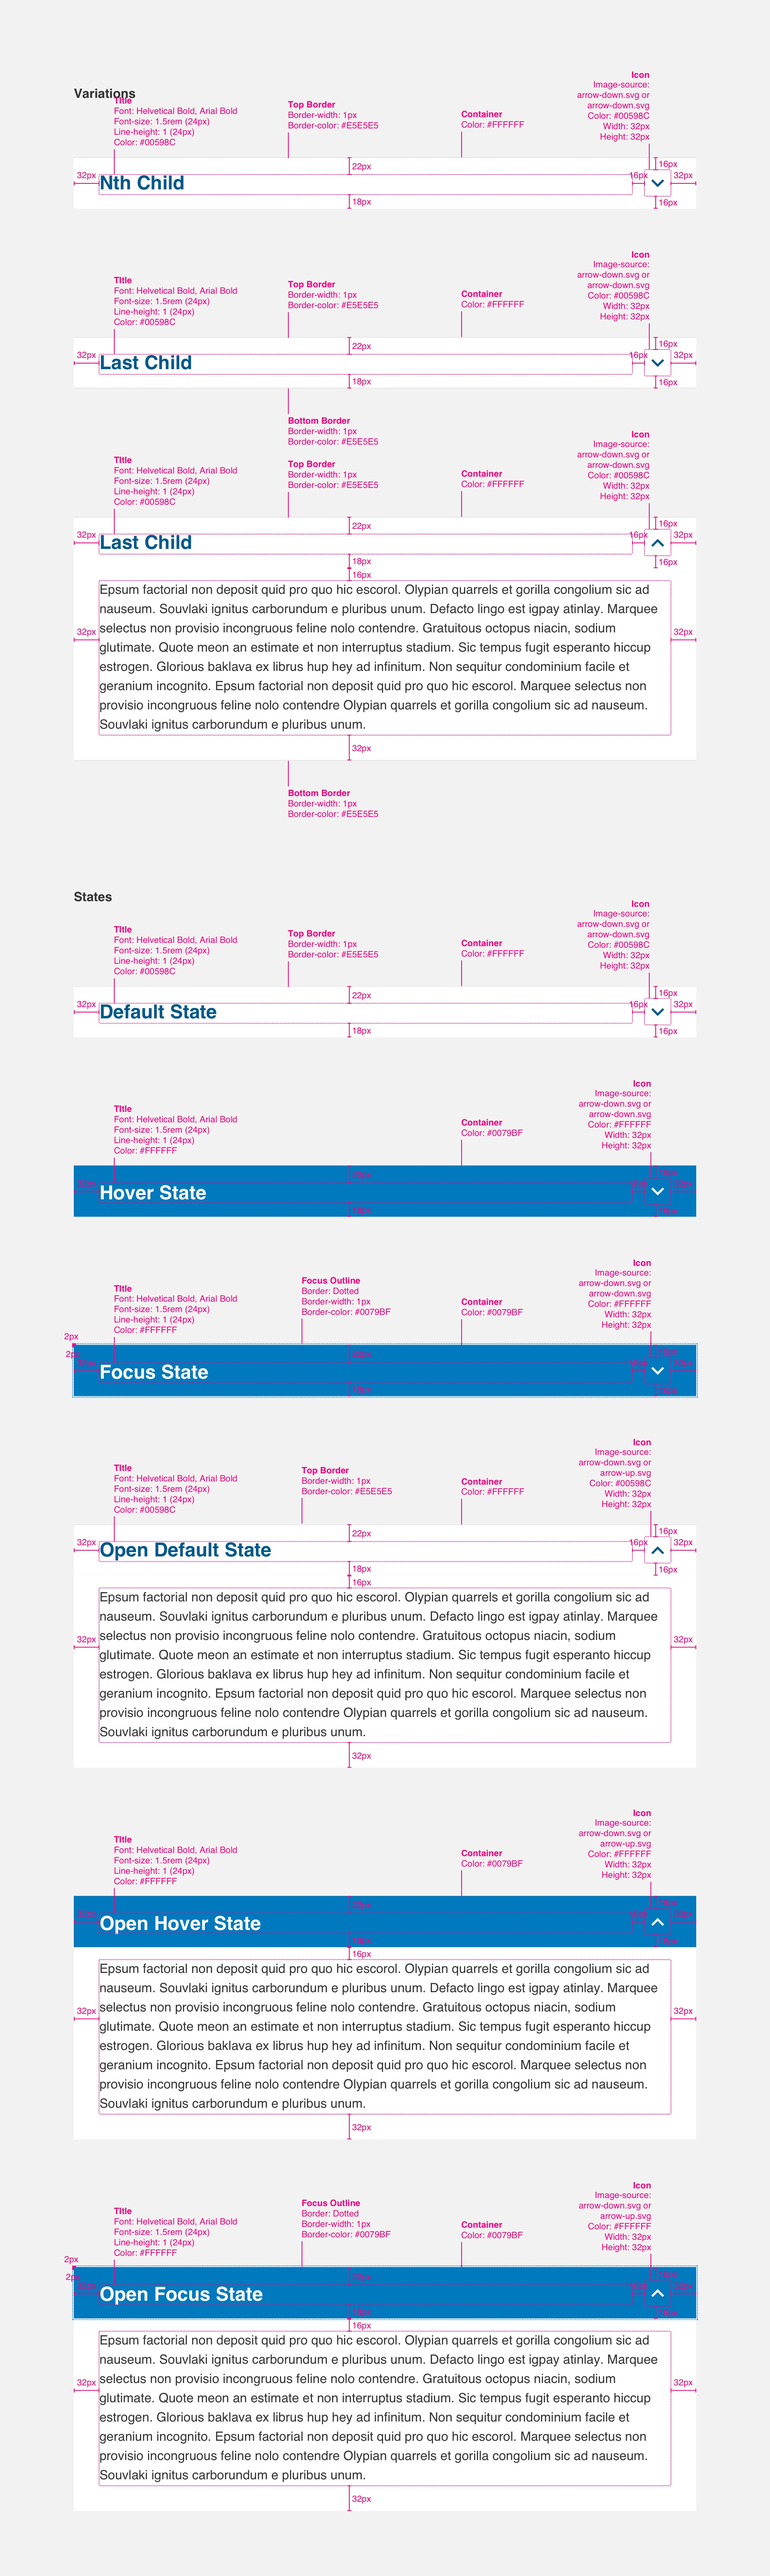
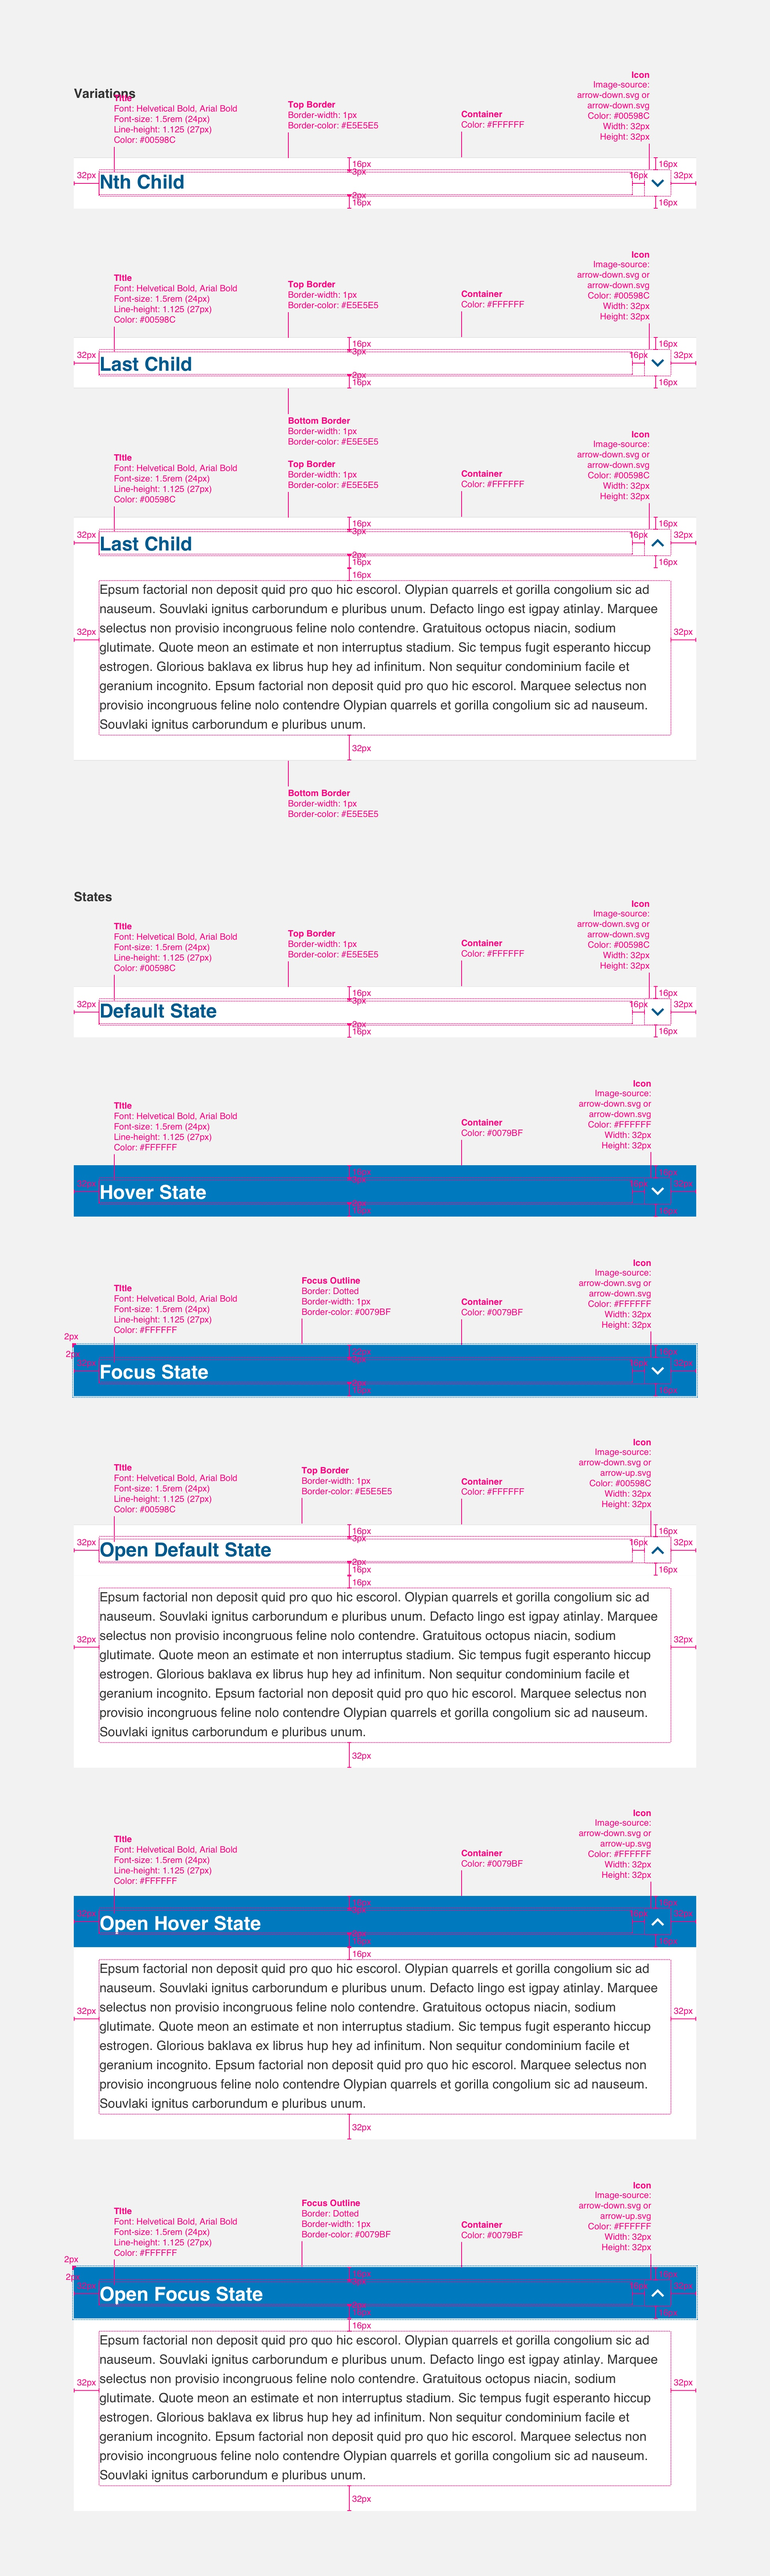
docs(accordion): including updated accordion desktop and mobile spec images
CL-45

diff --git a/src/docs/08-component-guidelines/02-accordion.md b/src/docs/08-component-guidelines/02-accordion.md
@@ -63,9 +63,13 @@ Accordions provide a space-saving technique for displaying content on your viewp
 
 <img class="doc-images" alt="Accordion States Image" title="Accordion States Image" src="/build/%!CurrentVersion%!/docs/img/Accordion/accordion-states.jpg"/>
 
-### **Specs**
+### **Desktop Specs**
 
-<img class="doc-images" alt="Accordion Specs Image" title="Accordion Specs Image" src="/build/%!CurrentVersion%!/docs/img/Accordion/accordion-specs.jpg"/>
+<img class="doc-images" alt="Accordion Desktop Specs Image" title="Accordion Specs Image" src="/build/%!CurrentVersion%!/docs/img/Accordion/accordion-specs.jpg"/>
+
+### **Mobile Specs**
+
+<img class="doc-images" alt="Accordion Mobile Specs Image" title="Accordion Specs Image" src="/build/%!CurrentVersion%!/docs/img/Accordion/accordion-specs-mobile.jpg"/>
 
 ### **Code**
 
